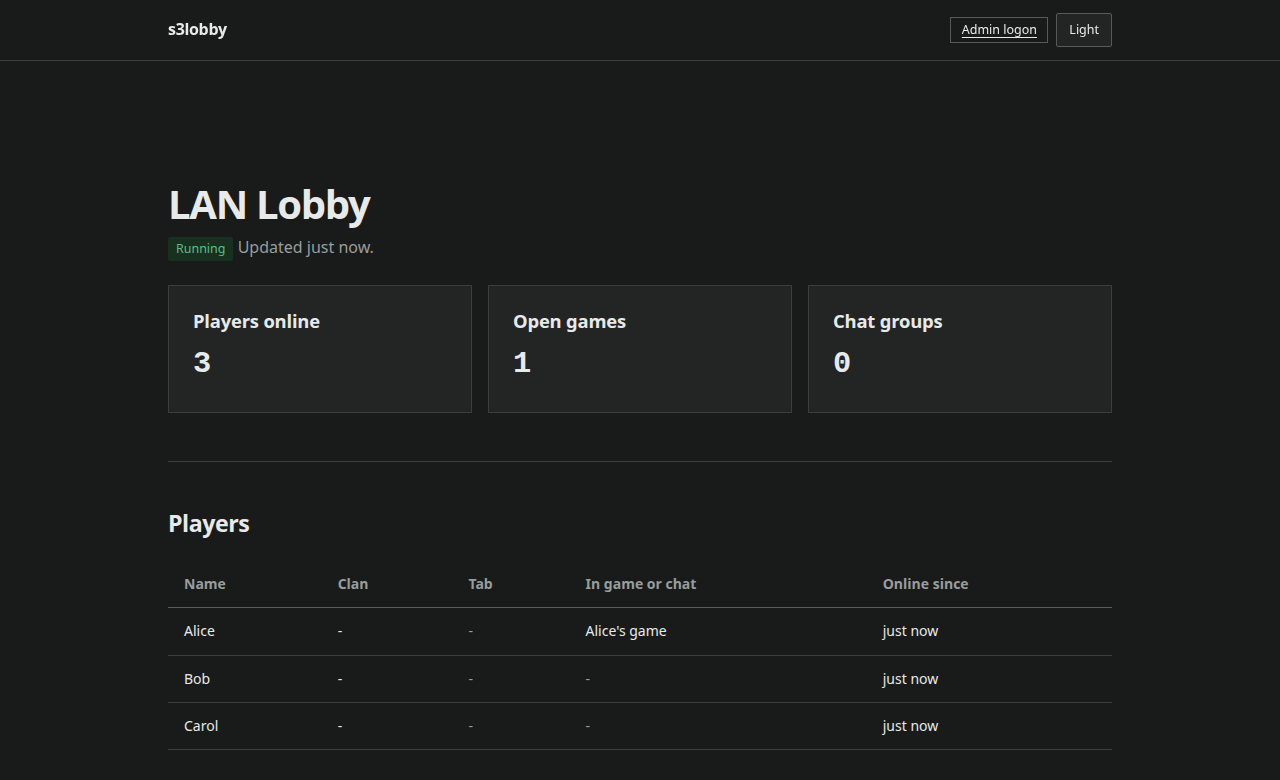
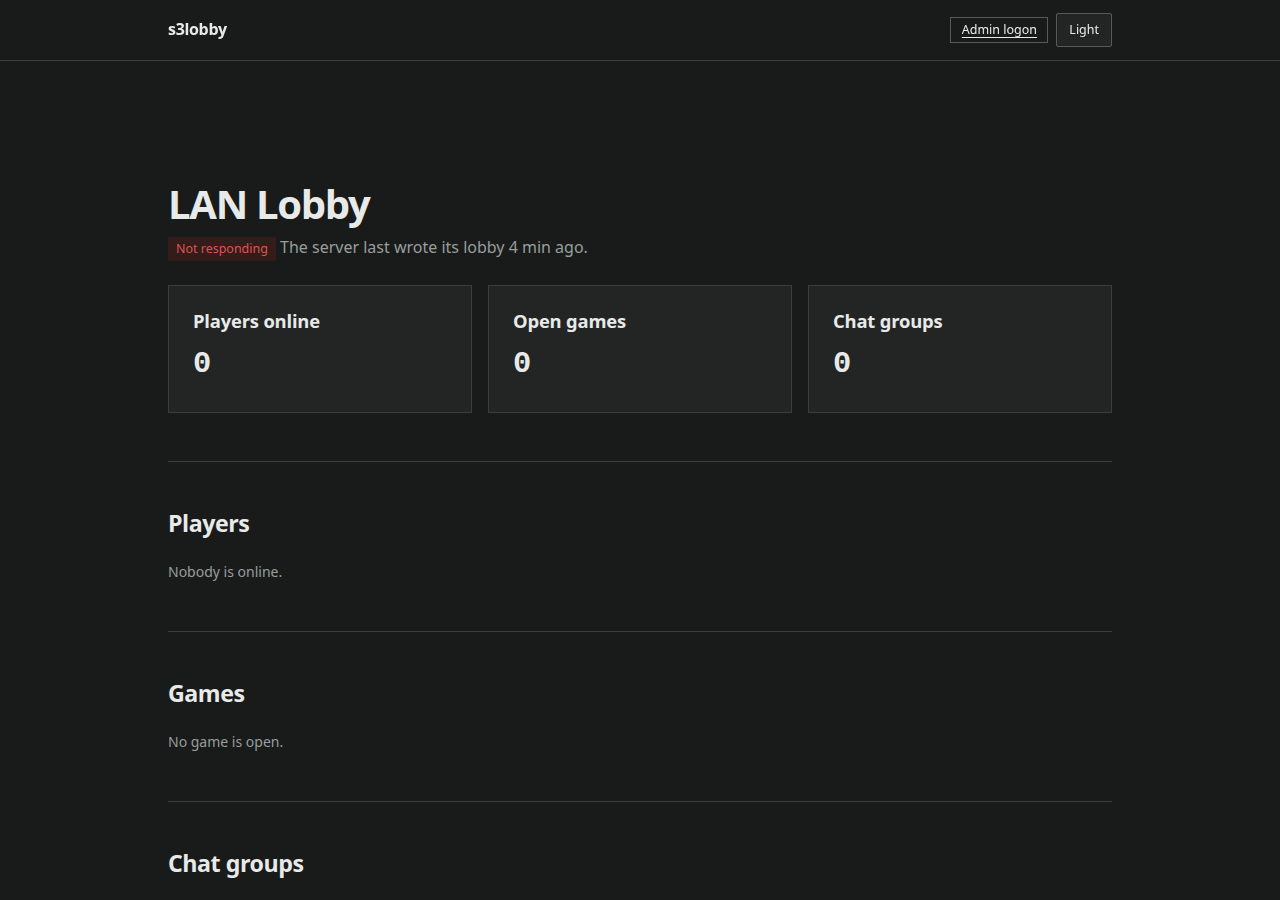
docs(readme): describe what runs were confirmed and show more pages
The README gets flat badges, screenshots of the games, game, account
and clans pages (from a demo database), the features and roadmap as
they stand now, and a note that the server was tested on one system
only. CLAUDE.md records the commands, the documentation rule and how
screenshots and two game copies are made.

diff --git a/README.md b/README.md
@@ -6,13 +6,15 @@
 
 **Bring the online lobby of the original The Settlers III back to life.**
 
-[![Tests](https://github.com/DaRealHansForSure/s3lobby/actions/workflows/tests.yml/badge.svg)](https://github.com/DaRealHansForSure/s3lobby/actions/workflows/tests.yml)
-![Python 3.10+](https://img.shields.io/badge/python-3.10%2B-1b3a6b?logo=python&logoColor=white)
-![No dependencies](https://img.shields.io/badge/dependencies-none-17603f)
-[![MIT License](https://img.shields.io/badge/license-MIT-17603f)](LICENSE)
-![SQLite, MySQL, MariaDB](https://img.shields.io/badge/database-SQLite%20%7C%20MySQL%20%7C%20MariaDB-1b3a6b)
-![UDP 3344](https://img.shields.io/badge/protocol-UDP%203344-6d5a10)
-![The Settlers III](https://img.shields.io/badge/game-The%20Settlers%20III%20(1998)-dec470)
+[![Tests](https://img.shields.io/github/actions/workflow/status/DaRealHansForSure/s3lobby/tests.yml?branch=main&style=flat&label=tests&logo=github)](https://github.com/DaRealHansForSure/s3lobby/actions/workflows/tests.yml)
+[![Release](https://img.shields.io/github/v/tag/DaRealHansForSure/s3lobby?style=flat&label=release&color=1b3a6b)](CHANGELOG.md)
+[![Last commit](https://img.shields.io/github/last-commit/DaRealHansForSure/s3lobby/develop?style=flat&color=1b3a6b)](https://github.com/DaRealHansForSure/s3lobby/commits/develop)
+![Python 3.10+](https://img.shields.io/badge/python-3.10%2B-1b3a6b?style=flat&logo=python&logoColor=white)
+![No dependencies](https://img.shields.io/badge/dependencies-none-17603f?style=flat)
+[![MIT License](https://img.shields.io/badge/license-MIT-17603f?style=flat)](LICENSE)
+![SQLite, MySQL, MariaDB](https://img.shields.io/badge/database-SQLite%20%7C%20MySQL%20%7C%20MariaDB-1b3a6b?style=flat)
+![UDP 3344](https://img.shields.io/badge/protocol-UDP%203344-6d5a10?style=flat)
+![The Settlers III](https://img.shields.io/badge/game-The%20Settlers%20III%20(1998)-dec470?style=flat)
 
 [Quick start](#quick-start) ·
 [Database](#choosing-a-database) ·
@@ -34,7 +36,7 @@ files: point the game at your server and log on.
 
 <picture>
   <source media="(prefers-color-scheme: dark)" srcset="docs/images/live-lobby-dark.png">
-  <img src="docs/images/live-lobby-light.png" alt="The live lobby page of the s3lobby web interface: three players online and one open game">
+  <img src="docs/images/live-lobby-light.png" alt="The live lobby page of the s3lobby web interface: five players online, one open game and a chat group, two players in green and one in blue as in the game's member lists">
 </picture>
 
 ## Contents
@@ -47,6 +49,7 @@ files: point the game at your server and log on.
 - [Choosing a database](#choosing-a-database)
 - [Accounts and lobby content](#accounts-and-lobby-content)
 - [Web interface](#web-interface)
+- [Screenshots](#screenshots)
 - [Pointing the game at the server](#pointing-the-game-at-the-server)
 - [Playing over the internet](#playing-over-the-internet)
 - [Running the game on Linux with Wine](#running-the-game-on-linux-with-wine)
@@ -59,14 +62,20 @@ files: point the game at your server and log on.
 ## Features
 
 - **The original lobby, working again**: logon, the lobby rooms and game zones, chat, opening and
-  joining games, chat groups, clans, the Home tab with news and statistics, the ChatZone and the
-  MessageZone board.
+  joining games, chat groups with and without a password, clans, the Home tab with news,
+  statistics and an advert banner, the ChatZone and the MessageZone board.
+- **Clans and admins in colour**: the game's member lists draw marked clans and admins in green
+  (the clan "BB" in blue, the colour the game kept for Blue Byte's staff).
 - **Accounts made by the server's admins**: players log on with an access code instead of a
   self-chosen password; codes are stored as salted scrypt hashes only.
 - **Server lines in the game's chat**: welcome message, announcements, and the chat commands
   `/who`, `/clan`, `/help` and, for admins, `/announce`.
 - **Web interface**: a public live view of the lobby, and administration of accounts, clans, news,
-  themes, the board, settings and announcements, with past games and match reports.
+  themes, the board, settings and announcements. Every game gets a page with its setup, teams,
+  winners and time of play, decoded from the reports the game sends; every account a list of its
+  games and results.
+- **For testing**: a development mode that lets every account log on with `1234` from the LAN,
+  and scripts that start and stop the server and the web interface together.
 - **SQLite or MySQL**: a single file by default; MySQL or MariaDB with one switch, and a command
   that moves an existing lobby across.
 - **Schema migrations** that upgrade the database in place on every start, with checksums that
@@ -77,6 +86,15 @@ files: point the game at your server and log on.
   PyMySQL are optional extras.
 
 ## Status
+
+> [!NOTE]
+> **Tested on one system only.** Everything below that says "tested" ran on this one machine:
+> Ubuntu 26.04.1 LTS (Linux 7.0, GNOME on Wayland), Python 3.14, Wine 10.0 with Microsoft's
+> DirectPlay (`winetricks directplay`), the GOG "Ultimate Collection" of The Settlers III in German
+> (game version 1.60), the server and the game on the same machine, at most two copies of the game
+> at once. The automated tests also ran against MySQL 8.4 and MariaDB 11.4 in containers. Not
+> tried yet: the game on Windows, other releases or languages of the game, a server on Windows or
+> macOS, and players on different machines or networks. Reports from other systems are welcome.
 
 Tested with the GOG "Ultimate Collection" (German, game version 1.60) under Wine 10 on Linux:
 
@@ -324,6 +342,46 @@ S3LOBBY_DATABASE=/srv/lobby.sqlite3 S3LOBBY_WEB_SECRET=... S3LOBBY_WEB_SECURE_CO
 S3LOBBY_WEB_BEHIND_PROXY=1 gunicorn "s3lobby.web.app:create_app_from_environment()"
 ```
 
+## Screenshots
+
+The screenshots show a demo lobby. Names in green and blue are the ones the game's member lists
+draw in those colours.
+
+<table>
+  <tr>
+    <td width="50%">
+      <picture>
+        <source media="(prefers-color-scheme: dark)" srcset="docs/images/games-dark.png">
+        <img src="docs/images/games-light.png" alt="The Games page: one line per game with host, type, map, players, opening time, result and how long it was open">
+      </picture>
+      <p align="center"><b>Games</b>: every game opened in the lobby, one line each.</p>
+    </td>
+    <td width="50%">
+      <picture>
+        <source media="(prefers-color-scheme: dark)" srcset="docs/images/game-details-dark.png">
+        <img src="docs/images/game-details-light.png" alt="A game's page: when it was opened, started, decided and closed, the winner, the teams with slot, race and lobby id, and the setup">
+      </picture>
+      <p align="center"><b>A game</b>: timeline, winners, teams, setup and reports.</p>
+    </td>
+  </tr>
+  <tr>
+    <td width="50%">
+      <picture>
+        <source media="(prefers-color-scheme: dark)" srcset="docs/images/account-dark.png">
+        <img src="docs/images/account-light.png" alt="An account's page: its access codes, the form for a new code, and the games it joined with team, race and result">
+      </picture>
+      <p align="center"><b>An account</b>: access codes and the games it played.</p>
+    </td>
+    <td width="50%">
+      <picture>
+        <source media="(prefers-color-scheme: dark)" srcset="docs/images/clans-dark.png">
+        <img src="docs/images/clans-light.png" alt="The Clans page: clans with their members, which ones the game lists in green or blue, and the buttons to change that">
+      </picture>
+      <p align="center"><b>Clans</b>: members, and the colour the game lists them in.</p>
+    </td>
+  </tr>
+</table>
+
 ## Pointing the game at the server
 
 The game reads its server list from the registry: every **value name** under the key
@@ -456,6 +514,9 @@ The code follows the same layers:
 | `s3lobby/connection.py` | the reliable layer for one client: numbering, acknowledgements, retries |
 | `s3lobby/guards.py` | rate limits and a throttled log against flooding senders |
 | `s3lobby/lobby.py` | players, rooms, zones and games, and the answer to every request |
+| `s3lobby/groups.py` | one group (room, game or chat group) and the rules about groups |
+| `s3lobby/logon.py` | who may log on: accounts, access codes, bans, limits, development mode |
+| `s3lobby/commands.py` | the chat commands (`/who`, `/clan`, `/announce`, `/kick`, `/ban`, ...) |
 | `s3lobby/server.py` | the UDP socket and one connection per client |
 | `s3lobby/addresses.py` | the address each player is shown to another, so chat and joins can reach it |
 | `s3lobby/upnp.py`, `s3lobby/forwarding.py` | port forwarding on the router by UPnP (`--upnp`) |
@@ -479,9 +540,10 @@ Planned or wished for, roughly in order:
   results per player and per clan, show the standings on the web interface and the Home tab, and
   confirm valid ladder results to the game (Result 0x6c) once the reports are trusted enough,
   for example only when every player of a match sent a matching report.
-- Hardening that needs a recorded game session first: refusing forged datagrams from a logged on
-  player's address, and a confirmation code for admin chat commands.
-- MySQL over TLS for databases on another machine.
+- **What a match tells the lobby** is all that a ranking can use: the game reports each match
+  twice, at the start and when one team is left, with its slots, teams, races and the winning team
+  (the only team that still has a finished military building). The match itself runs between the
+  players over DirectPlay and never passes through the server.
 
 ## Development
 
@@ -518,6 +580,8 @@ documented:
   behaviour gets a session test that says what breaks in the game without it.
 - A schema change adds the next migration number to every folder in `s3lobby/schema/`; released
   migration files are never edited.
+- Every function, method and class has a docstring that says what it is for, and why where that
+  is not obvious: whoever continues this work has to understand it from the code.
 - The server and the command line stay on the standard library.
 - Never commit game files, the game's executable, or recordings that contain them.
 

diff --git a/CLAUDE.md b/CLAUDE.md
@@ -46,7 +46,14 @@ another project; its history was carried over, so the early commits describe tha
 Run from this folder:
 
 - Tests: `python3 -m unittest`
-- Server: `python3 -m s3lobby serve --verbose --log-file lobby.log`
+- Server and web interface together, in the background: `scripts/start.sh [--dev]`; stop both with
+  `scripts/stop.sh [--force]`. Datagrams go to `lobby.log`, console output to `lobby-console.log`
+  and `web-console.log`.
+- Server alone: `python3 -m s3lobby serve --verbose --log-file lobby.log` (with `--log-file` the
+  datagrams of `--verbose` go to the file only; the console stays at INFO)
+- Development mode for tests with the game: `serve --dev` and `web --dev` accept the password
+  `1234` for every account (web: admins) from this machine and the LAN, and several players may
+  share a serial; refused with `--public-host`, `--upnp` or `--behind-proxy`.
 - Administration: `python3 -m s3lobby account add NAME` and the other subcommands (`--help`)
 - Web interface: `.venv/bin/python -m s3lobby web --database s3lobby.sqlite3` (needs Flask)
 - All tests including the web ones: `.venv/bin/python -m unittest` (a `.venv` with `flask`)
@@ -81,9 +88,15 @@ SQLite needs nothing extra.
   `tests/support.py`.
 - A new lobby behaviour gets a session test in `tests/test_session.py` whose docstring says what
   breaks in the game without it.
-- Code style: descriptive names, docstrings and why-comments, early returns, no magic numbers, no
-  compressed one-liners, four spaces. Never write an em dash or en dash anywhere (code, comments,
-  docs, commit messages); use a plain hyphen.
+- Code style: descriptive names, early returns, no magic numbers, no compressed one-liners, four
+  spaces. Never write an em dash or en dash anywhere (code, comments, docs, commit messages); use
+  a plain hyphen.
+- Documentation in the code, because a human has to be able to continue this work: every
+  function, method and class has a docstring that says what it is for and, where it is not
+  obvious, why it exists or which rule of the game it follows (check with an AST walk; none may be
+  missing). Inside functions, a comment above every step a junior programmer would not understand
+  at once: the reason for a check, what a number or flag means for the game, why an order
+  matters. No comments that restate the code.
 - Never commit game files, the game's executable, or recordings that contain them.
 - Network safety, learned from the security review (`a05c8b9`, `e91a88f`):
   - Anything answered before a logon is no bigger than the request: sender addresses can be
@@ -164,6 +177,14 @@ it rejected; find the handler for its message types in S3.EXE (dispatch table in
   changed, and `grep` for em and en dashes in what changed.
 - UPnP can be tried against the owner's router (192.168.1.1): a mapping added in a test must be
   deleted again, and `GetSpecificPortMappingEntry` (error 714) confirms it is gone.
+- Two copies of the game on one machine: `build/wine/run-s3.sh --window 1` and `--window 2` (each
+  in its own Wine desktop, game filled in by cnc-ddraw's settings in ddraw.ini, `--monitor NAME`
+  remembered, `--stop` ends every copy). Log the second copy on with a second account (the name is
+  shared between the copies' settings).
+- Checking web pages by eye: render them with headless Chrome (`google-chrome --headless=new
+  --window-size=1280,900 --screenshot=FILE file://PAGE.html`) from HTML fetched with Flask's test
+  client, `/static/` rewritten to file paths; check light and dark (`data-theme` on `<html>`) and
+  375 px wide. The README screenshots come from a demo database, never the owner's data.
 
 ## Open review findings
 
